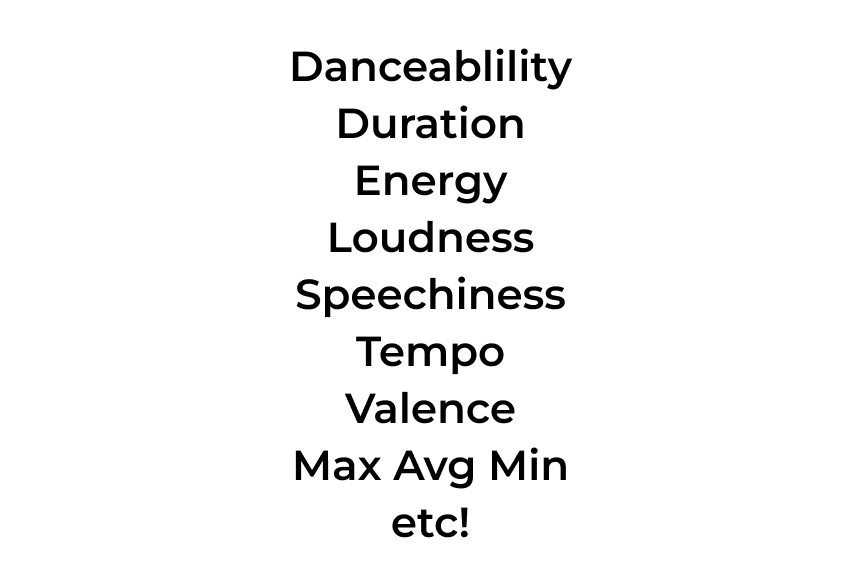
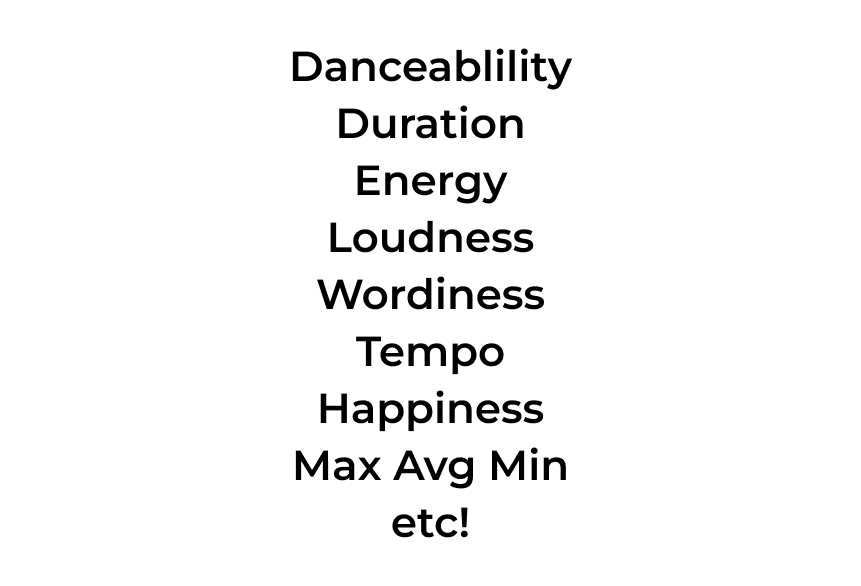
Humanity Update p2: Changed Speechiness to Wordiness for more concise understandability

Changed region(s): [[0.3322, 0.4608, 0.6643, 0.5529], [0.3624, 0.6758, 0.6341, 0.7372]]

diff --git a/src/public/scripts/landingTrackObjects.js b/src/public/scripts/landingTrackObjects.js
@@ -42,7 +42,7 @@ const DondaTrackObjects = [
                 "energy": 0.545,
                 "instrumentalness": 0.0000948,
                 "loudness": 53.534,
-                "speechiness": 0.168,
+                "wordiness": 0.168,
                 "tempo": 118.029,
                 "happiness": 0.212
             },
@@ -53,7 +53,7 @@ const DondaTrackObjects = [
                 "energy": 0.7898550724637682,
                 "instrumentalness": 1,
                 "loudness": 0.9550774281024763,
-                "speechiness": 0.4540540540540541,
+                "wordiness": 0.4540540540540541,
                 "tempo": 0.7971162288106977,
                 "happiness": 0.3365079365079365
             }
@@ -106,7 +106,7 @@ const DondaTrackObjects = [
                 "energy": 0.422,
                 "instrumentalness": 0,
                 "loudness": 52.735,
-                "speechiness": 0.119,
+                "wordiness": 0.119,
                 "tempo": 82.986,
                 "happiness": 0.268
             },
@@ -117,7 +117,7 @@ const DondaTrackObjects = [
                 "energy": 0.6115942028985507,
                 "instrumentalness": 0,
                 "loudness": 0.940822807393135,
-                "speechiness": 0.3216216216216216,
+                "wordiness": 0.3216216216216216,
                 "tempo": 0.560451137975282,
                 "happiness": 0.42539682539682544
             }
@@ -170,7 +170,7 @@ const DondaTrackObjects = [
                 "energy": 0.64,
                 "instrumentalness": 0,
                 "loudness": 54.418,
-                "speechiness": 0.37,
+                "wordiness": 0.37,
                 "tempo": 137.728,
                 "happiness": 0.63
             },
@@ -181,7 +181,7 @@ const DondaTrackObjects = [
                 "energy": 0.9275362318840581,
                 "instrumentalness": 0,
                 "loudness": 0.9708484978234496,
-                "speechiness": 1,
+                "wordiness": 1,
                 "tempo": 0.9301546565813468,
                 "happiness": 1
             }
@@ -234,7 +234,7 @@ const DondaTrackObjects = [
                 "energy": 0.69,
                 "instrumentalness": 0,
                 "loudness": 56.052,
-                "speechiness": 0.0642,
+                "wordiness": 0.0642,
                 "tempo": 148.07,
                 "happiness": 0.396
             },
@@ -245,7 +245,7 @@ const DondaTrackObjects = [
                 "energy": 1,
                 "instrumentalness": 0,
                 "loudness": 1,
-                "speechiness": 0.1735135135135135,
+                "wordiness": 0.1735135135135135,
                 "tempo": 1,
                 "happiness": 0.6285714285714286
             }
@@ -302,7 +302,7 @@ const InstrumentalTrackObjects = [
                 "energy": 0.406,
                 "instrumentalness": 0.42,
                 "loudness": 49.055,
-                "speechiness": 0.0327,
+                "wordiness": 0.0327,
                 "tempo": 144.919,
                 "happiness": 0.336
             },
@@ -313,7 +313,7 @@ const InstrumentalTrackObjects = [
                 "energy": 0.5623268698060943,
                 "instrumentalness": 0.47244094488188976,
                 "loudness": 0.94854590455565,
-                "speechiness": 0.5849731663685153,
+                "wordiness": 0.5849731663685153,
                 "tempo": 0.9998758081097304,
                 "happiness": 0.5258215962441315
             }
@@ -366,7 +366,7 @@ const InstrumentalTrackObjects = [
                 "energy": 0.365,
                 "instrumentalness": 0.397,
                 "loudness": 47.381,
-                "speechiness": 0.0334,
+                "wordiness": 0.0334,
                 "tempo": 144.937,
                 "happiness": 0.639
             },
@@ -377,7 +377,7 @@ const InstrumentalTrackObjects = [
                 "energy": 0.5055401662049862,
                 "instrumentalness": 0.4465691788526434,
                 "loudness": 0.9161768118183927,
-                "speechiness": 0.5974955277280859,
+                "wordiness": 0.5974955277280859,
                 "tempo": 1,
                 "happiness": 1
             }
@@ -440,7 +440,7 @@ const InstrumentalTrackObjects = [
                 "energy": 0.507,
                 "instrumentalness": 0.889,
                 "loudness": 48.32,
-                "speechiness": 0.0373,
+                "wordiness": 0.0373,
                 "tempo": 79.54,
                 "happiness": 0.054
             },
@@ -451,7 +451,7 @@ const InstrumentalTrackObjects = [
                 "energy": 0.7022160664819945,
                 "instrumentalness": 1,
                 "loudness": 0.9343336684971769,
-                "speechiness": 0.667262969588551,
+                "wordiness": 0.667262969588551,
                 "tempo": 0.5487901640022906,
                 "happiness": 0.08450704225352113
             }
@@ -504,7 +504,7 @@ const InstrumentalTrackObjects = [
                 "energy": 0.722,
                 "instrumentalness": 0.873,
                 "loudness": 51.716,
-                "speechiness": 0.0559,
+                "wordiness": 0.0559,
                 "tempo": 116.292,
                 "happiness": 0.0383
             },
@@ -515,7 +515,7 @@ const InstrumentalTrackObjects = [
                 "energy": 1,
                 "instrumentalness": 0.9820022497187851,
                 "loudness": 1,
-                "speechiness": 1,
+                "wordiness": 1,
                 "tempo": 0.8023624057349055,
                 "happiness": 0.05993740219092332
             }
@@ -572,7 +572,7 @@ const RandomTrackObjects = [
                 "energy": 0.545,
                 "instrumentalness": 0.0000948,
                 "loudness": 53.534,
-                "speechiness": 0.168,
+                "wordiness": 0.168,
                 "tempo": 118.029,
                 "happiness": 0.212
             },
@@ -583,7 +583,7 @@ const RandomTrackObjects = [
                 "energy": 0.7305630026809652,
                 "instrumentalness": 0.010784982935153585,
                 "loudness": 0.9777720954868404,
-                "speechiness": 0.4786324786324787,
+                "wordiness": 0.4786324786324787,
                 "tempo": 0.7369903215735247,
                 "happiness": 0.36741767764298094
             }
@@ -686,7 +686,7 @@ const RandomTrackObjects = [
                 "energy": 0.482,
                 "instrumentalness": 0,
                 "loudness": 50.471000000000004,
-                "speechiness": 0.351,
+                "wordiness": 0.351,
                 "tempo": 91.994,
                 "happiness": 0.441
             },
@@ -697,7 +697,7 @@ const RandomTrackObjects = [
                 "energy": 0.646112600536193,
                 "instrumentalness": 0,
                 "loudness": 0.9218279118189623,
-                "speechiness": 1,
+                "wordiness": 1,
                 "tempo": 0.574423977521074,
                 "happiness": 0.7642980935875218
             }
@@ -760,7 +760,7 @@ const RandomTrackObjects = [
                 "energy": 0.746,
                 "instrumentalness": 0.0087,
                 "loudness": 54.751,
-                "speechiness": 0.184,
+                "wordiness": 0.184,
                 "tempo": 117.072,
                 "happiness": 0.277
             },
@@ -771,7 +771,7 @@ const RandomTrackObjects = [
                 "energy": 1,
                 "instrumentalness": 0.9897610921501707,
                 "loudness": 1,
-                "speechiness": 0.5242165242165242,
+                "wordiness": 0.5242165242165242,
                 "tempo": 0.7310146737433656,
                 "happiness": 0.4800693240901214
             }
@@ -824,7 +824,7 @@ const RandomTrackObjects = [
                 "energy": 0.344,
                 "instrumentalness": 0.00879,
                 "loudness": 48.826,
-                "speechiness": 0.118,
+                "wordiness": 0.118,
                 "tempo": 160.15,
                 "happiness": 0.577
             },
@@ -835,7 +835,7 @@ const RandomTrackObjects = [
                 "energy": 0.46112600536193027,
                 "instrumentalness": 1,
                 "loudness": 0.8917827984876989,
-                "speechiness": 0.33618233618233617,
+                "wordiness": 0.33618233618233617,
                 "tempo": 1,
                 "happiness": 1
             }
@@ -892,7 +892,7 @@ const EthanTrackObjects = [
                 "energy": 0.715,
                 "instrumentalness": 0.00000797,
                 "loudness": 51.928,
-                "speechiness": 0.0362,
+                "wordiness": 0.0362,
                 "tempo": 155.925,
                 "happiness": 0.497
             },
@@ -903,7 +903,7 @@ const EthanTrackObjects = [
                 "energy": 1,
                 "instrumentalness": 0.21775956284153003,
                 "loudness": 0.9739848072775016,
-                "speechiness": 0.6666666666666667,
+                "wordiness": 0.6666666666666667,
                 "tempo": 1,
                 "happiness": 0.569954128440367
             }
@@ -956,7 +956,7 @@ const EthanTrackObjects = [
                 "energy": 0.354,
                 "instrumentalness": 0,
                 "loudness": 50.513999999999996,
-                "speechiness": 0.0543,
+                "wordiness": 0.0543,
                 "tempo": 153.902,
                 "happiness": 0.792
             },
@@ -967,7 +967,7 @@ const EthanTrackObjects = [
                 "energy": 0.4951048951048951,
                 "instrumentalness": 0,
                 "loudness": 0.9474631904717247,
-                "speechiness": 1,
+                "wordiness": 1,
                 "tempo": 0.9870258136924802,
                 "happiness": 0.908256880733945
             }
@@ -1020,7 +1020,7 @@ const EthanTrackObjects = [
                 "energy": 0.442,
                 "instrumentalness": 0.0000146,
                 "loudness": 52.775999999999996,
-                "speechiness": 0.0243,
+                "wordiness": 0.0243,
                 "tempo": 146.277,
                 "happiness": 0.213
             },
@@ -1031,7 +1031,7 @@ const EthanTrackObjects = [
                 "energy": 0.6181818181818182,
                 "instrumentalness": 0.3989071038251366,
                 "loudness": 0.9898902747819562,
-                "speechiness": 0.4475138121546961,
+                "wordiness": 0.4475138121546961,
                 "tempo": 0.9381240981240979,
                 "happiness": 0.24426605504587157
             }
@@ -1084,7 +1084,7 @@ const EthanTrackObjects = [
                 "energy": 0.56,
                 "instrumentalness": 0.0000366,
                 "loudness": 53.315,
-                "speechiness": 0.0327,
+                "wordiness": 0.0327,
                 "tempo": 122.054,
                 "happiness": 0.872
             },
@@ -1095,7 +1095,7 @@ const EthanTrackObjects = [
                 "energy": 0.7832167832167833,
                 "instrumentalness": 1,
                 "loudness": 1,
-                "speechiness": 0.6022099447513812,
+                "wordiness": 0.6022099447513812,
                 "tempo": 0.7827737694404361,
                 "happiness": 1
             }

diff --git a/src/public/index.html b/src/public/index.html
@@ -97,7 +97,7 @@
             <div class="col-md-4 p-2 p-md-3 p-lg-4">
                 <div class="card muchmore-card" style="border: none; border-radius: 1em;">
                     <img src="/images/richdetails.png" class="card-img-top"
-                        alt="Rich Track Details: Danceability,  Duration, Energy, Loudness, Speechiness, Tempo, Happiness, Max Avg Min, and more!">
+                        alt="Rich Track Details: Danceability,  Duration, Energy, Loudness, Wordiness, Tempo, Happiness, Max Avg Min, and more!">
                     <div class="card-body" style="border-top: 2px solid lightgrey">
                         <h2 class="card-title" style="font-weight: 600;">Rich Track Details</h2>
                         <p class="card-text">Plenty of information about each track you search is listed, along with

diff --git a/src/trackObject.js b/src/trackObject.js
@@ -34,7 +34,7 @@ exports.createTrackFeaturesObject = (fullTrackFeatureData) => {
 			energy: fullTrackFeatureData.energy,
 			instrumentalness: fullTrackFeatureData.instrumentalness,
 			loudness: fullTrackFeatureData.loudness + 60,
-			speechiness: fullTrackFeatureData.speechiness,
+			wordiness: fullTrackFeatureData.speechiness,
 			tempo: fullTrackFeatureData.tempo,
 			happiness: fullTrackFeatureData.valence,
 		},

diff --git a/src/public/scripts/chartManager.js b/src/public/scripts/chartManager.js
@@ -38,7 +38,7 @@ class ChartManager {
 		"danceability",
 		"duration",
 		"energy",
-		"speechiness",
+		"wordiness",
 		"tempo",
 		"happiness",
 	];
